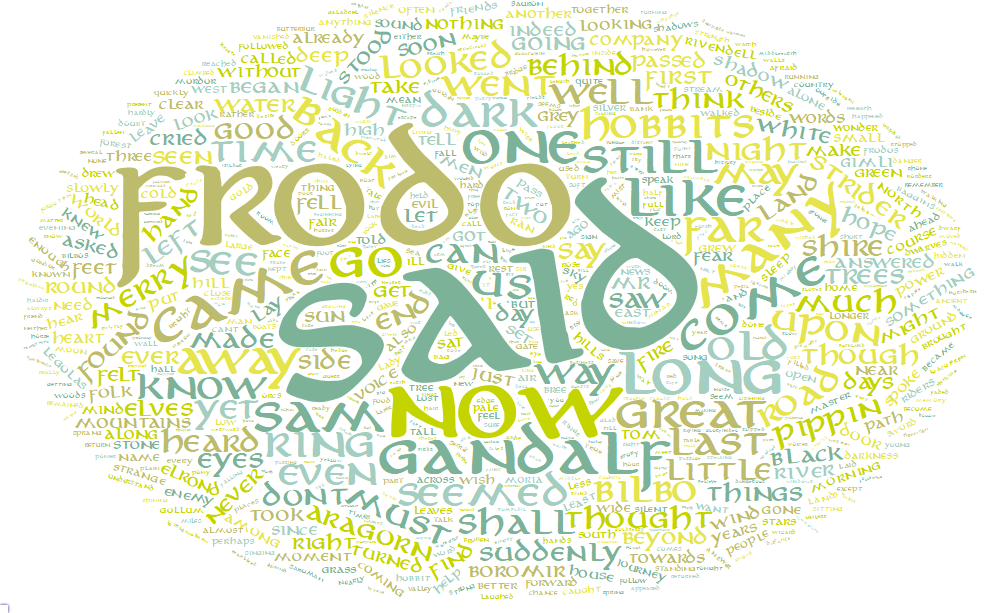
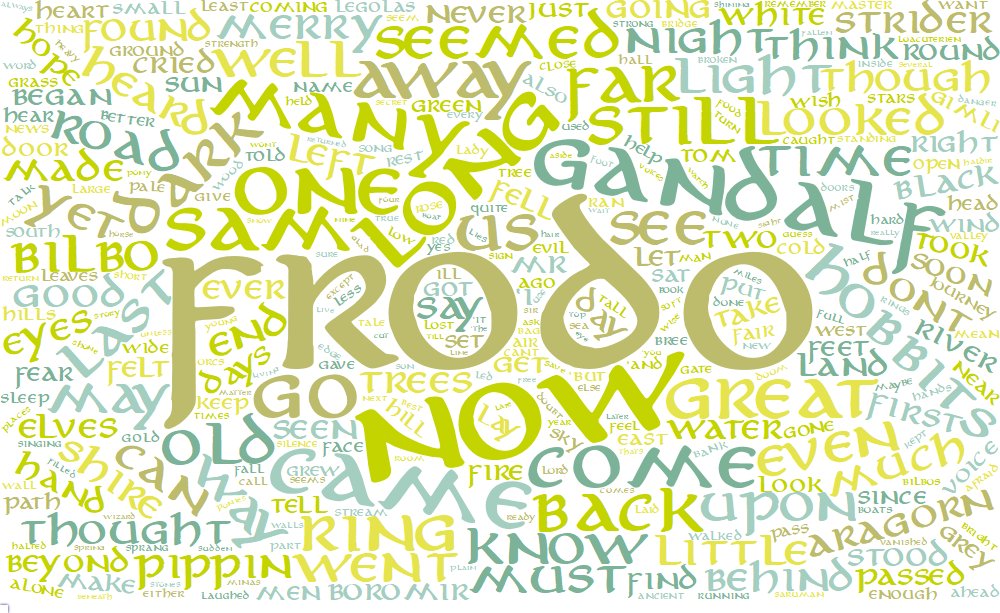
lotr

diff --git a/30DayChartChallenge/d4_magical.md b/30DayChartChallenge/d4_magical.md
@@ -21,44 +21,30 @@ l <- paste(l, collapse = " ")
 words <- unlist(strsplit(l, " "))
 
 library(stopwords)
-```
-
-    ## Warning: package 'stopwords' was built under R version 4.0.5
-
-``` r
 library(tidyverse)
 ```
 
     ## -- Attaching packages --------------------------------------- tidyverse 1.3.1 --
 
     ## v ggplot2 3.3.3     v purrr   0.3.4
-    ## v tibble  3.1.0     v dplyr   1.0.5
+    ## v tibble  3.1.2     v dplyr   1.0.6
     ## v tidyr   1.1.3     v stringr 1.4.0
     ## v readr   1.4.0     v forcats 0.5.1
-
-    ## Warning: package 'ggplot2' was built under R version 4.0.5
-
-    ## Warning: package 'tibble' was built under R version 4.0.5
-
-    ## Warning: package 'tidyr' was built under R version 4.0.5
-
-    ## Warning: package 'readr' was built under R version 4.0.5
-
-    ## Warning: package 'dplyr' was built under R version 4.0.5
-
-    ## Warning: package 'forcats' was built under R version 4.0.5
 
     ## -- Conflicts ------------------------------------------ tidyverse_conflicts() --
     ## x dplyr::filter() masks stats::filter()
     ## x dplyr::lag()    masks stats::lag()
 
 ``` r
+my_stopwords <- c("said", "shall", "saw", "like", "side", "suddenly")
+
+
 d <- data.frame(words = words) %>% 
   mutate(words = str_remove_all(words, "[:punct:]"),
          words = tolower(words)) %>%
   group_by(words) %>%
   count(sort = TRUE) %>%
-  filter(!words %in% stopwords()) %>%
+  filter(!words %in% c(stopwords(), my_stopwords)) %>%
   filter(!str_detect(words, "^<"))
 ```
 
@@ -66,18 +52,11 @@ d <- data.frame(words = words) %>%
 
 ``` r
 library(wordcloud2)
-```
 
-    ## Warning: package 'wordcloud2' was built under R version 4.0.5
+# wordcloud2(d)
 
-``` r
-wordcloud2(d)
-```
 
-![](d4_magical_files/figure-gfm/unnamed-chunk-2-1.png)<!-- -->
-
-``` r
-my_graph <- wordcloud2(d, fontFamily = "aniron")
+# my_graph <- wordcloud2(d, fontFamily = "aniron")
 
 # http://24.media.tumblr.com/e7f84b164ca555df27ece58c9eef533b/tumblr_n4zlev5OTf1tze8l2o4_500.png
 # https://imagecolorpicker.com/en
@@ -86,7 +65,8 @@ pal <- c("#a4cec0", "#7cb298", "#bcbc6c", "#e5e44d", "#c4d400")
 
 my_graph <- wordcloud2(d, 
                        fontFamily = "aniron", 
-                       color = sample(pal, nrow(d), TRUE))
+                       color = sample(pal, nrow(d), TRUE), 
+                       shape = "circle")
 # my_graph <- wordcloud2(d, 
 #                        fontFamily = "aniron", 
 #                        color = sample(pal, nrow(d), TRUE), 
@@ -96,18 +76,13 @@ my_graph <- wordcloud2(d,
 
 # save it in html
 library("htmlwidgets")
-```
-
-    ## Warning: package 'htmlwidgets' was built under R version 4.0.4
-
-``` r
 saveWidget(my_graph,"tmp.html",selfcontained = F)
 
 # and in png or pdf
 webshot::webshot("tmp.html","fig_1.png", delay =25, vwidth = 1000, vheight=600)
 ```
 
-![](d4_magical_files/figure-gfm/unnamed-chunk-2-2.png)<!-- -->
+![](d4_magical_files/figure-gfm/unnamed-chunk-2-1.png)<!-- -->
 
 <!-- ![image](fig_1.png) -->
 
